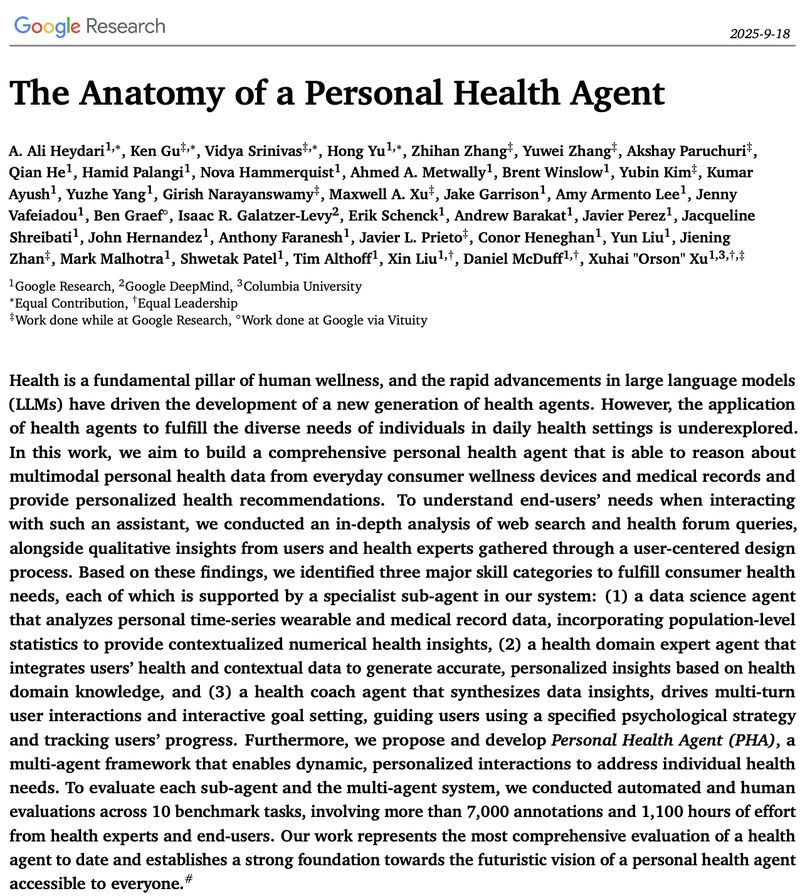
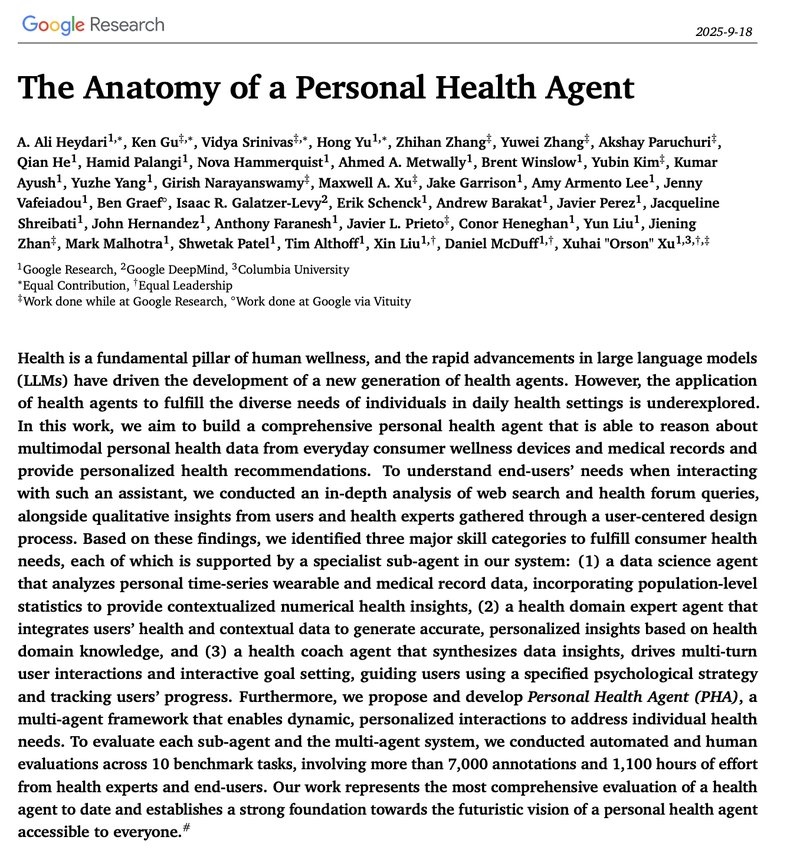
Add new project, blog, publication, and patent cards

diff --git a/index.html b/index.html
@@ -35,7 +35,22 @@
 			"name": "Jake Garrison",
 			"url": "https://jakegarrison.me/",
 			"jobTitle": "AI Research Engineer",
-			"knowsAbout": ["Health agents", "AI agents", "Multi-agent systems", "Foundation models", "Frontier AI", "Self-improving AI", "Automated AI research", "Edge AI", "Wearable sensing", "Health acoustics"],
+			"knowsAbout": [
+				"Health agents",
+				"AI agents",
+				"Multi-agent systems",
+				"Foundation models",
+				"Large language models",
+				"Self-improving AI",
+				"Automated AI research",
+				"Health acoustics",
+				"Audio representation learning",
+				"Wearable sensing",
+				"Edge AI",
+				"Digital signal processing",
+				"Computer vision",
+				"Robotics and physics simulation"
+			],
 			"worksFor": { "@type": "Organization", "name": "Google" },
 			"alumniOf": { "@type": "CollegeOrUniversity", "name": "University of Washington" },
 			"address": { "@type": "PostalAddress", "addressLocality": "Seattle", "addressRegion": "WA" },
@@ -289,8 +304,8 @@
 												<li>Commercialized UbiComp lab research including BiliCam, SpiroSmart, and CoughSense</li>
 												<li>Developed audio, radar, and sonar algorithms for cough and respiration sensing shipped on Pixel Phones and Nest Hub</li>
 												<li>Developed remote care COVID-19 diagnostic and data science tools</li>
-												<li>Trained large audio and sensor foundation models specialized in health signals</li>
-												<li>Exploring applications of LLMs for consumer health</li>
+												<li>Trained multimodal audio and wearable sensor foundation models (HeAR, AudioFM, SensorFM, SensorLM, LSM)</li>
+												<li>Built personal health agents, multi-agent systems, and self-improving AI for automated scientific discovery (ERA, Codegen Classroom)</li>
 											</ul>
 										</div>
 									</details>
@@ -780,16 +795,17 @@
 							<ul class="list">
 								<li>JAX, PyTorch, TensorFlow, Python, C/C++, Embedded C, MATLAB, SuperCollider, JavaScript, SQL</li>
 								<li>Signal, vision, sound, language and medical data processing</li>
-								<li>Machine learning, large language models (LLMs), foundation models</li>
+								<li>Machine learning, large language models (LLMs), multimodal foundation models, AI agents</li>
+								<li>Self-improving AI, multi-agent systems, automated scientific research (autoresearch)</li>
 								<li>Data science, portfolio pipeline engineering, web scraper engines</li>
 								<li>Modeling, MuJoCo physics simulations, and HIL loop controls</li>
-								<li>Embedded systems firmware development, RTOS</li>
+								<li>Embedded systems firmware development, RTOS, on-device edge AI</li>
 							</ul>
 							<h6>Engineering</h6>
 							<ul class="list">
-								<li>Neural network architectures (Transformers, CNNs, Speech Embeddings)</li>
+								<li>Neural network architectures (Transformers, CNNs, Audio &amp; Sensor Representations)</li>
 								<li>Analog and digital circuit design (PCBs, tube amplifiers)</li>
-								<li>Acoustic engineering &amp; biosignal sensing (sleep/respiration sonar)</li>
+								<li>Acoustic engineering &amp; biosignal sensing (sleep/respiration sonar, HeAR, AudioFM, SensorFM)</li>
 								<li>Vehicle controls (powertrain control, hybrid-electric systems, CAN bus)</li>
 								<li>Autonomous systems (lane detection, self-driving simulators)</li>
 								<li>Additive manufacturing (3D printing, rapid hardware prototyping)</li>
@@ -806,15 +822,18 @@
 							</ul>
 							<h4>Keywords</h4>
 							<p>JAX, PyTorch, TensorFlow, Machine Learning, Deep Learning, Foundation Models, Large Language Models,
-								LLMs, Wearable Sensors, Health Acoustics, Digital Signal Processing, DSP, Audio Embeddings, Audio
-								Representations, Sleep Sensing, Respiration Sensing, Mobile Health, Contactless Sensing, Computer
-								Vision, OpenCV, Analog Electronics, Tube Amplifiers, PCB Design, Firmware Development, Autonomous
-								Driving, Hybrid Electric Vehicles, TORCS Simulator, SuperCollider, Ableton Live parser, vocal synthesis,
-								speech synthesis, pitch detector, instrument tuner, audio separate, cocktail party separation, MuJoCo,
-								reinforcement learning, physics simulation, ESP32 LLM, micro LLM, tokenizer, pre-training, large
-								wearable models, biomarkers, Power electronics, high voltage systems, CAN bus, battery pack design,
-								microcontrollers, FPGA, digital circuits, Plex API, Last.fm scrobble sync, Reddit scraper, housing list
-								scraper, portfolio pipeline</p>
+								LLMs, AI Agents, Health Agents, Personal Health Agent, Multi-Agent Systems, AI Swarms, Self-Improving AI,
+								Recursive Self-Improvement, Automated AI Research, Autoresearch, Empirical Research Assistance, ERA,
+								Codegen Classroom, Frontier AI, Wearable Sensors, SensorFM, SensorLM, LSM, Large Sensor Models,
+								Health Acoustics, HeAR, Health Acoustic Representations, AudioFM, Digital Signal Processing, DSP,
+								Audio Embeddings, Audio Representations, Sleep Sensing, Respiration Sensing, Mobile Health, Contactless
+								Sensing, Computer Vision, OpenCV, Analog Electronics, Tube Amplifiers, PCB Design, Firmware Development,
+								Autonomous Driving, Hybrid Electric Vehicles, TORCS Simulator, SuperCollider, Ableton Live parser,
+								vocal synthesis, speech synthesis, pitch detector, instrument tuner, audio separate, cocktail party
+								separation, MuJoCo, reinforcement learning, physics simulation, ESP32 LLM, micro LLM, Edge AI, On-Device
+								AI, tokenizer, pre-training, large wearable models, biomarkers, probabilistic reasoning, Power
+								electronics, high voltage systems, CAN bus, battery pack design, microcontrollers, FPGA, digital
+								circuits, Plex API, Last.fm scrobble sync, Reddit scraper, housing list scraper, portfolio pipeline</p>
 						</div>
 						<details class="resume-item" style="margin-bottom: 2em; margin-top: 1em;">
 							<summary class="resume-header">
@@ -893,6 +912,18 @@
 							<h2>Projects</h2>
 
 							<h4>Artificial Intelligence (AI/ML)</h4>
+							<div class="g1">
+								<h6>Codegen Classroom: Self-Improving LLM Agents <span class="pub-year">(2026)</span></h6>
+
+								<div class="image">
+									<img loading="lazy" src="image/codegen-classroom.jpg" alt="Codegen Classroom agent scores over cycles">
+									<div class="image-overlay">
+										<div class="image-link">
+											<a target="_blank" href="https://github.com/google-research/codegen-classroom" class="btn">Code</a>
+										</div>
+									</div>
+								</div>
+							</div>
 							<div class="g1">
 								<h6>MuJoCo Puppeteer Physics Sim <span class="pub-year">(2026)</span> <span class="vibe-tag">vibe-coded</span></h6>
 
@@ -1802,6 +1833,37 @@
 								<i>Official product announcements, research blogs, and news coverage of engineering projects and technologies I contributed to.</i>
 							</p>
 							<div class="g1">
+								<h6>Bringing Foundational Models to the Front Lines of TB Screening <span class="pub-year">(10/2026)</span></h6>
+
+								<div class="image">
+									<img loading="lazy" src="image/tb_screening.jpg" alt="TB Screening Blog">
+									<div class="image-overlay">
+										<div class="image-link">
+											<a target="_blank"
+												href="https://research.google/blog/bringing-foundational-models-to-the-front-lines-of-tb-screening/"
+												class="btn">Read</a>
+										</div>
+									</div>
+								</div>
+							</div>
+							<div class="g1">
+								<h6>The Anatomy of a Personal Health Agent <span class="pub-year">(10/2026)</span></h6>
+
+								<div class="image">
+									<img loading="lazy" src="image/health_agent_blog.jpg" alt="Personal Health Agent Blog">
+									<div class="image-overlay">
+										<div class="image-link">
+											<a target="_blank"
+												href="https://research.google/blog/the-anatomy-of-a-personal-health-agent/"
+												class="btn">Read Blog</a>
+											<a target="_blank" href="https://www.nature.com/articles/s41586-026-11161-8"
+												class="btn">Read Nature</a>
+											<a target="_blank" href="https://arxiv.org/abs/2508.20148" class="btn">Paper</a>
+										</div>
+									</div>
+								</div>
+							</div>
+							<div class="g1">
 								<h6>SensorFM: Wearable Health AI <span class="pub-year">(05/2026)</span></h6>
 
 								<div class="image">
@@ -2105,6 +2167,35 @@
 								</a>
 							</p>
 							<div class="g1">
+								<h6>AudioFM: Towards General Purpose Audio Representation Learning <span class="pub-year">(10/2026)</span></h6>
+
+								<div class="image">
+									<img loading="lazy" src="image/audiofm.jpg" alt="AudioFM Paper">
+									<div class="image-overlay">
+										<div class="image-link">
+											<a target="_blank" href="https://arxiv.org/abs/2610.34183" class="btn">Read (arXiv)</a>
+										</div>
+									</div>
+								</div>
+							</div>
+							<div class="g1">
+								<h6>The Anatomy of a Personal Health Agent <span class="pub-year">(10/2026)</span></h6>
+
+								<div class="image">
+									<img loading="lazy" src="image/health_agent.jpg" alt="The Anatomy of a Personal Health Agent">
+									<div class="image-overlay">
+										<div class="image-link">
+											<a target="_blank" href="https://www.nature.com/articles/s41586-026-11161-8"
+												class="btn">Read (Nature)</a>
+											<a target="_blank" href="https://arxiv.org/abs/2508.20148" class="btn">Read (arXiv)</a>
+											<a target="_blank"
+												href="https://research.google/blog/the-anatomy-of-a-personal-health-agent/"
+												class="btn">Blog</a>
+										</div>
+									</div>
+								</div>
+							</div>
+							<div class="g1">
 								<h6>Towards a General Intelligence and Interface for Wearable Health Data <span
 										class="pub-year">(05/2026)</span></h6>
 
@@ -2130,18 +2221,6 @@
 										<div class="image-link">
 											<a target="_blank" href="https://doi.org/10.1038/s41586-026-10658-6" class="btn">Read (Nature)</a>
 											<a target="_blank" href="https://arxiv.org/abs/2509.06503" class="btn">Read (arXiv)</a>
-										</div>
-									</div>
-								</div>
-							</div>
-							<div class="g1">
-								<h6>The Anatomy of a Personal Health Agent <span class="pub-year">(08/2025)</span></h6>
-
-								<div class="image">
-									<img loading="lazy" src="image/health_agent.jpg" alt="">
-									<div class="image-overlay">
-										<div class="image-link">
-											<a target="_blank" href="https://arxiv.org/abs/2508.20148" class="btn">Read (arXiv)</a>
 										</div>
 									</div>
 								</div>
@@ -2383,8 +2462,20 @@
 								</a>
 							</p>
 							<p style="margin-top: -10px; margin-bottom: 15px; font-style: italic; font-size: 0.9em; opacity: 0.8;">
-								Note: 6 additional pending utility applications (filed 2023–2025) are currently non-public.
+								Note: 5 additional pending utility applications (filed 2023–2025) are currently non-public.
 							</p>
+							<div class="g1">
+								<h6>System and method for summarizing health data for use by large language models <span class="pub-year">(06/2026)</span></h6>
+
+								<div class="image">
+									<img loading="lazy" src="image/US20260179738A1.jpg" alt="Health data summarization for LLMs patent">
+									<div class="image-overlay">
+										<div class="image-link">
+											<a target="_blank" href="https://patents.google.com/patent/US20260179738A1" class="btn">View Patent</a>
+										</div>
+									</div>
+								</div>
+							</div>
 							<div class="g1">
 								<h6>Method for detecting and classifying coughs or other non-semantic sounds <span
 										class="pub-year">(01/2024)</span></h6>

diff --git a/main.css b/main.css
@@ -1333,15 +1333,15 @@ body.dark-mode .resume-body {
   details.resume-item[open] summary.resume-header .chevron-icon {
     transform: none;
   }
-  
+
   details.resume-item .resume-body {
     display: block !important;
   }
-  
+
   details.resume-item summary.resume-header {
     pointer-events: none;
   }
-  
+
   details.resume-item summary.resume-header .chevron-icon {
     display: none;
   }
